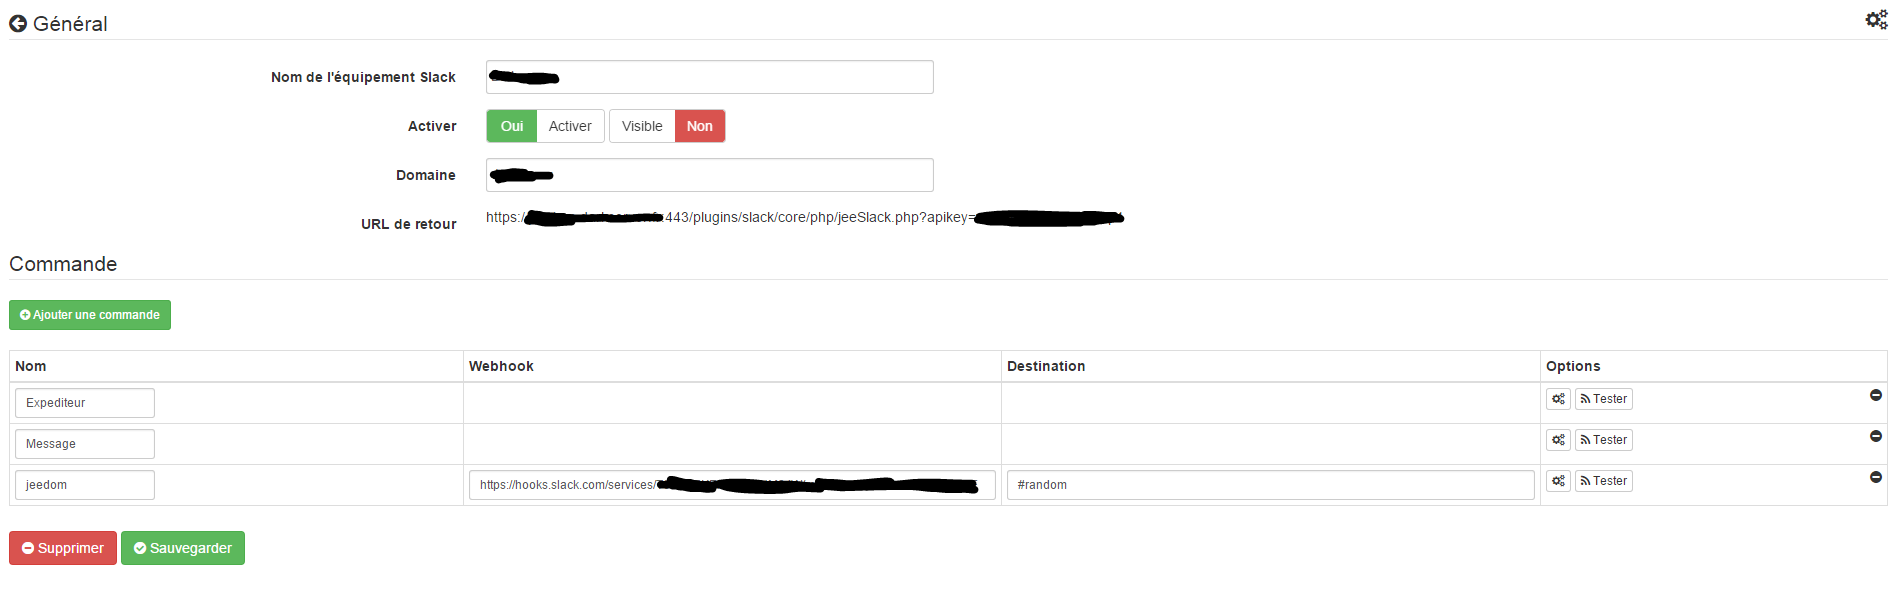
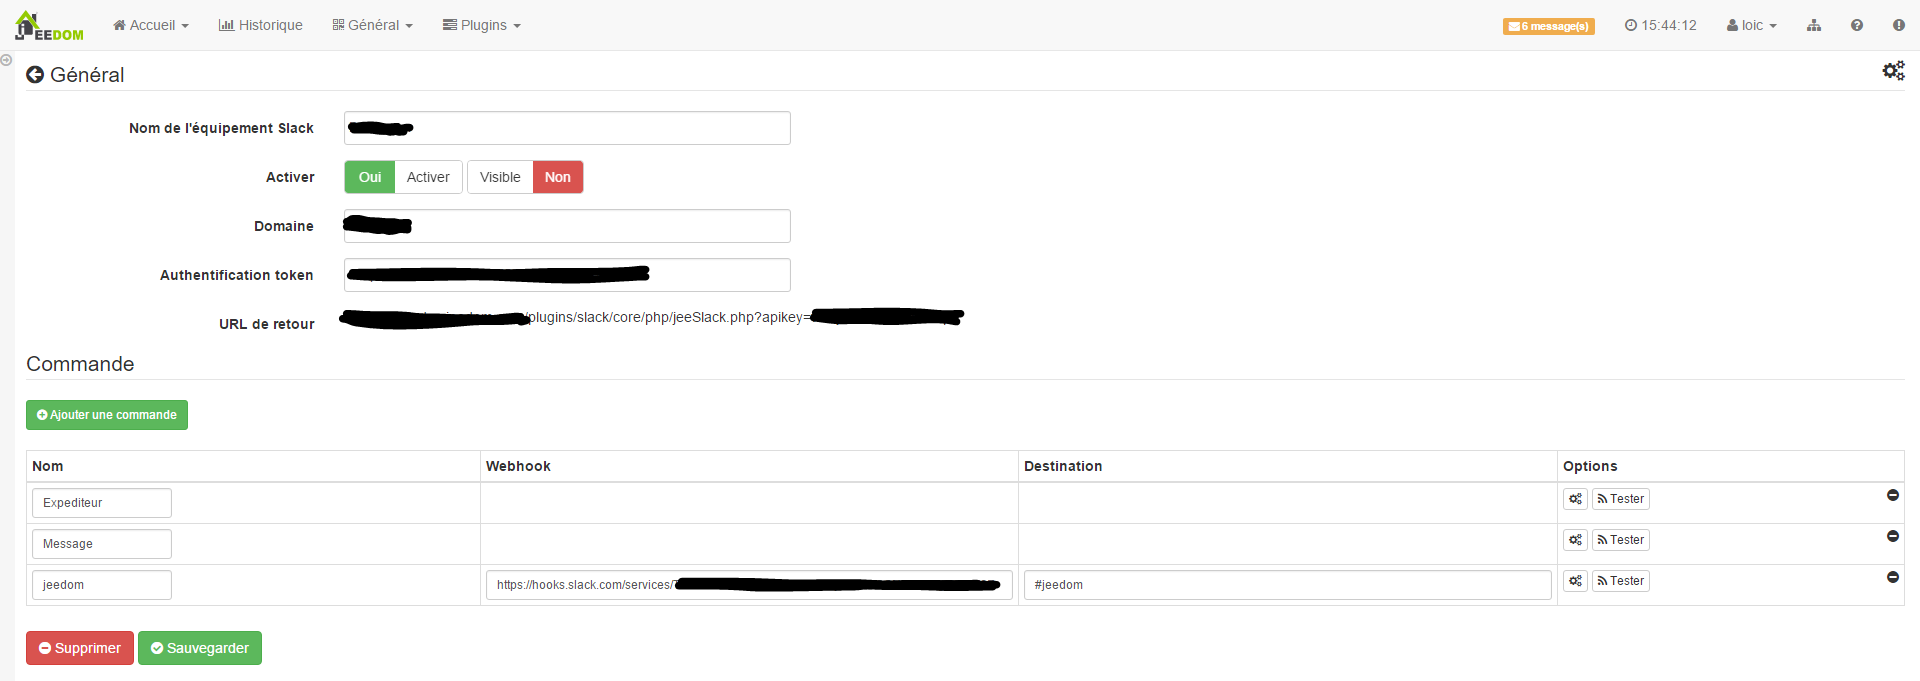
Add support send image from cam + update doc

diff --git a/core/class/slack.class.php b/core/class/slack.class.php
@@ -92,6 +92,7 @@ class slackCmd extends cmd {
 	}
 
 	public function execute($_options = array()) {
+
 		$request_http = new com_http(trim($this->getConfiguration('webhook')));
 		if (isset($_options['answer'])) {
 			$_options['message'] .= ' (' . implode(';', $_options['answer']) . ')';
@@ -101,7 +102,42 @@ class slackCmd extends cmd {
 			$post['channel'] = $this->getConfiguration('destination');
 		}
 		$request_http->setPost(array('payload' => json_encode($post)));
-		$request_http->exec(2, 3);
+		$request_http->exec(5, 3);
+
+		if (isset($_options['files']) && is_array($_options['files'])) {
+			$eqLogic = $this->getEqLogic();
+			$request_http = new com_http('https://slack.com/api/channels.list');
+			$request_http->setPost(array('token' => $eqLogic->getConfiguration('oauth_token')));
+			$channels = json_decode($request_http->exec(10, 3), true);
+			$cid = null;
+			if (isset($channels['channels'])) {
+				foreach ($channels['channels'] as $channel) {
+					if ('#' . $channel['name'] == $this->getConfiguration('destination')) {
+						$cid = $channel['id'];
+						break;
+					}
+				}
+			}
+			if ($cid == null) {
+				return;
+			}
+			foreach ($_options['files'] as $file) {
+				$request_http = new com_http('https://slack.com/api/files.upload');
+				$post = array('token' => $eqLogic->getConfiguration('oauth_token'), 'channels' => $cid);
+				if (version_compare(phpversion(), '5.5.0', '>=')) {
+					$post['file'] = new CurlFile($file);
+				} else {
+					$post['file'] = '@' . $file;
+				}
+				$request_http->setPost($post);
+				try {
+					$request_http->exec(60, 1);
+				} catch (Exception $e) {
+
+				}
+			}
+		}
+
 	}
 
 	/*     * **********************Getteur Setteur*************************** */

diff --git a/desktop/php/slack.php b/desktop/php/slack.php
@@ -69,6 +69,12 @@ foreach ($eqLogics as $eqLogic) {
         <input type="text" class="eqLogicAttr form-control" data-l1key="logicalId" placeholder="{{Nom du domaine}}"/>
       </div>
     </div>
+     <div class="form-group">
+     <label class="col-sm-2 control-label">{{Authentification token}}</label>
+      <div class="col-sm-3">
+        <input type="text" class="eqLogicAttr form-control" data-l1key="configuration" data-l2key="oauth_token" placeholder="{{Token}}"/>
+      </div>
+    </div>
     <div class="form-group">
       <label class="col-lg-2 control-label">{{URL de retour}}</label>
       <div class="col-lg-9">
